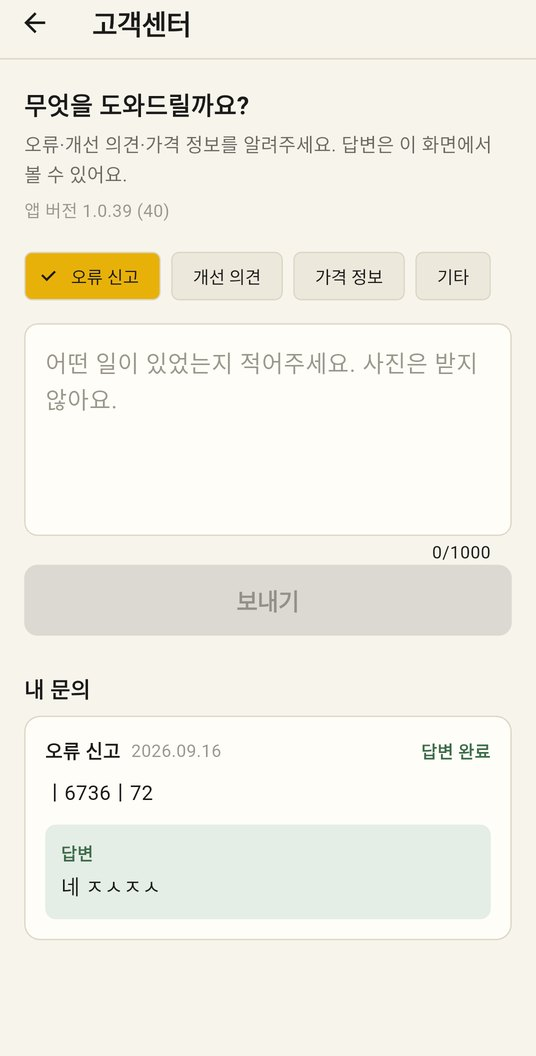
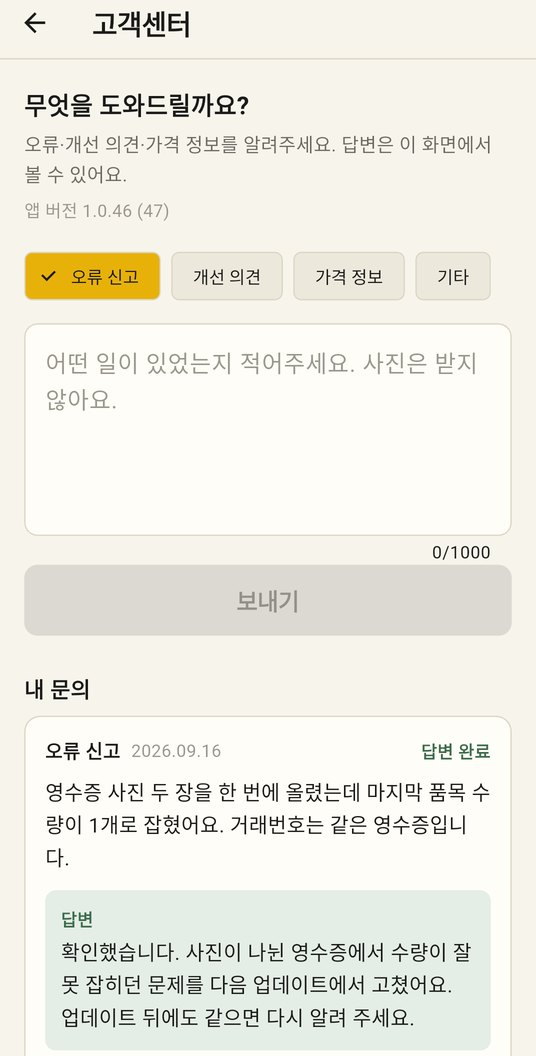
고객센터 화면을 실제 문의 예시로 다시 찍는다

Changed region(s): [[0.0896, 0.7188, 0.9254, 1.0], [0.209, 0.1875, 0.2388, 0.2188]]

diff --git a/manual/index.html b/manual/index.html
@@ -131,7 +131,7 @@ p{margin:0}
     <div class="eyebrow">사용 설명서</div>
     <h1>코코세이버,<br>이렇게 <em>쓰세요</em></h1>
   </div>
-  <div class="ver">앱 버전<b>1.0.40</b>2026년 9월 기준</div>
+  <div class="ver">화면 기준<b>2026년 9월</b>앱 1.0.40~1.0.46</div>
   <p class="lede">코스트코는 산 물건의 가격이 나중에 내려가면 차액을 돌려줍니다. 코코세이버는 내 영수증을 모아 두고, 산 물건이 싸지는 순간 알려 드려요. 화면마다 무엇을 할 수 있는지 차례대로 정리했습니다.</p>
 </header>
 
@@ -148,7 +148,7 @@ p{margin:0}
 
   <nav class="receipt" aria-label="목차">
     <div class="t">COCOSAVER</div>
-    <div class="s">화면 안내 · 앱 1.0.40</div>
+    <div class="s">화면 안내 · 2026년 9월</div>
     <div class="grp">시작하기</div>
     <a href="#s-login"><span>100101</span><span>로그인</span></a>
     <a href="#s-onboarding"><span>100102</span><span>첫 안내</span></a>
@@ -497,7 +497,7 @@ p{margin:0}
 <footer class="foot">
   <p>코코세이버는 코스트코 코리아와 제휴 관계가 없는 독립 앱입니다. 'COSTCO'는 해당 회사의 상표이며, 환불 가능 여부와 조건은 매장 정책을 따릅니다.</p>
   <p><a href="https://fready-hub.github.io/cocosaver-privacy/">개인정보 처리방침</a> · 문의는 앱의 설정 › 고객센터로 보내 주세요.</p>
-  <p>화면은 앱 1.0.40 기준입니다. 이름·이메일·카드 번호, 광고, 코스트코 사이트 로고는 가렸어요.</p>
+  <p>화면은 2026년 9월(앱 1.0.40~1.0.46) 기준입니다. 이름·이메일·카드 번호, 광고, 코스트코 사이트 로고는 가렸어요.</p>
 </footer>
 
 </div>
